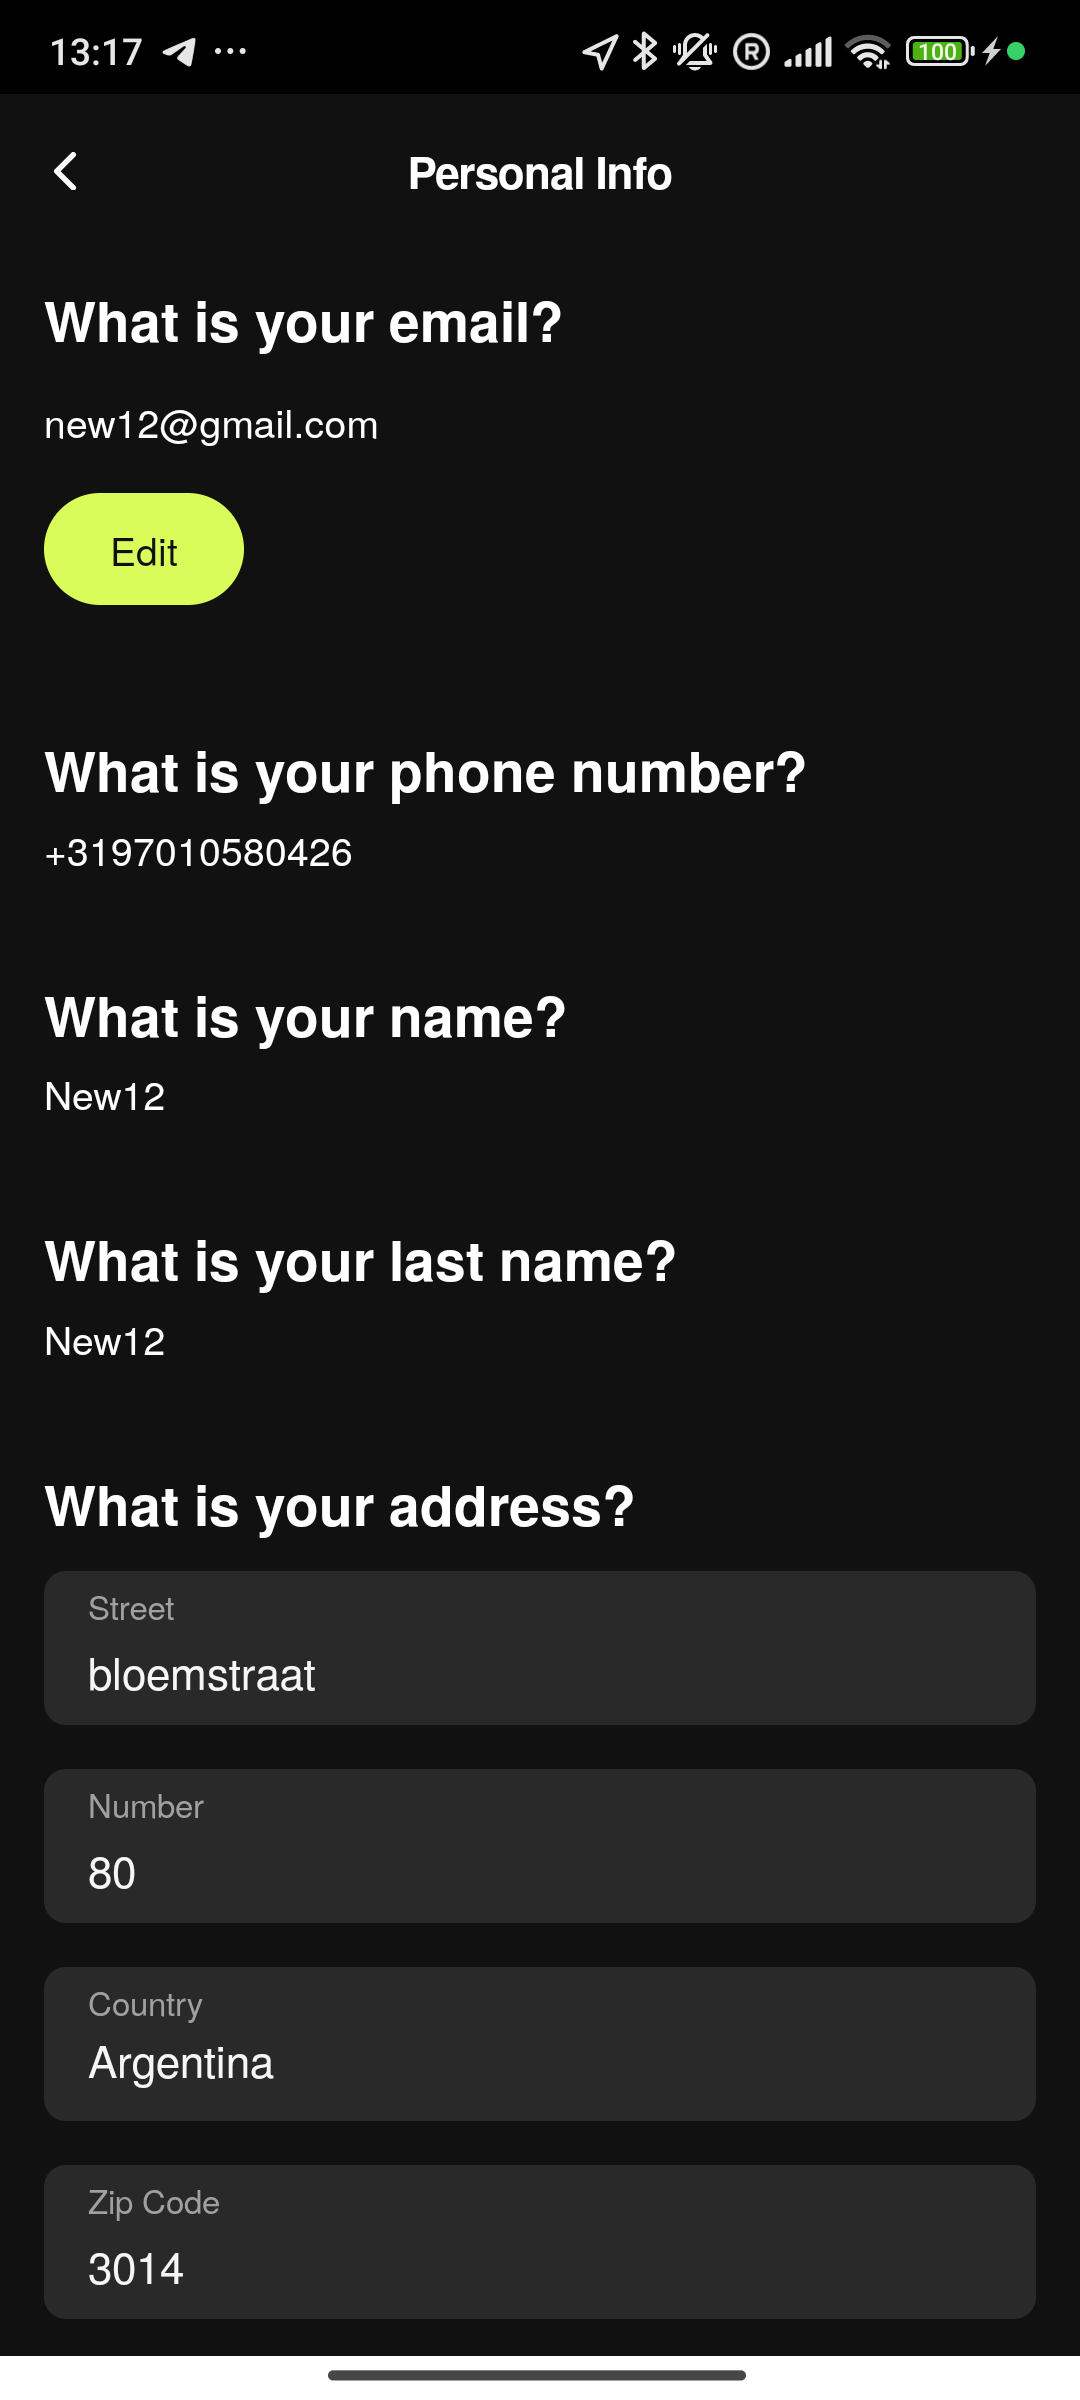
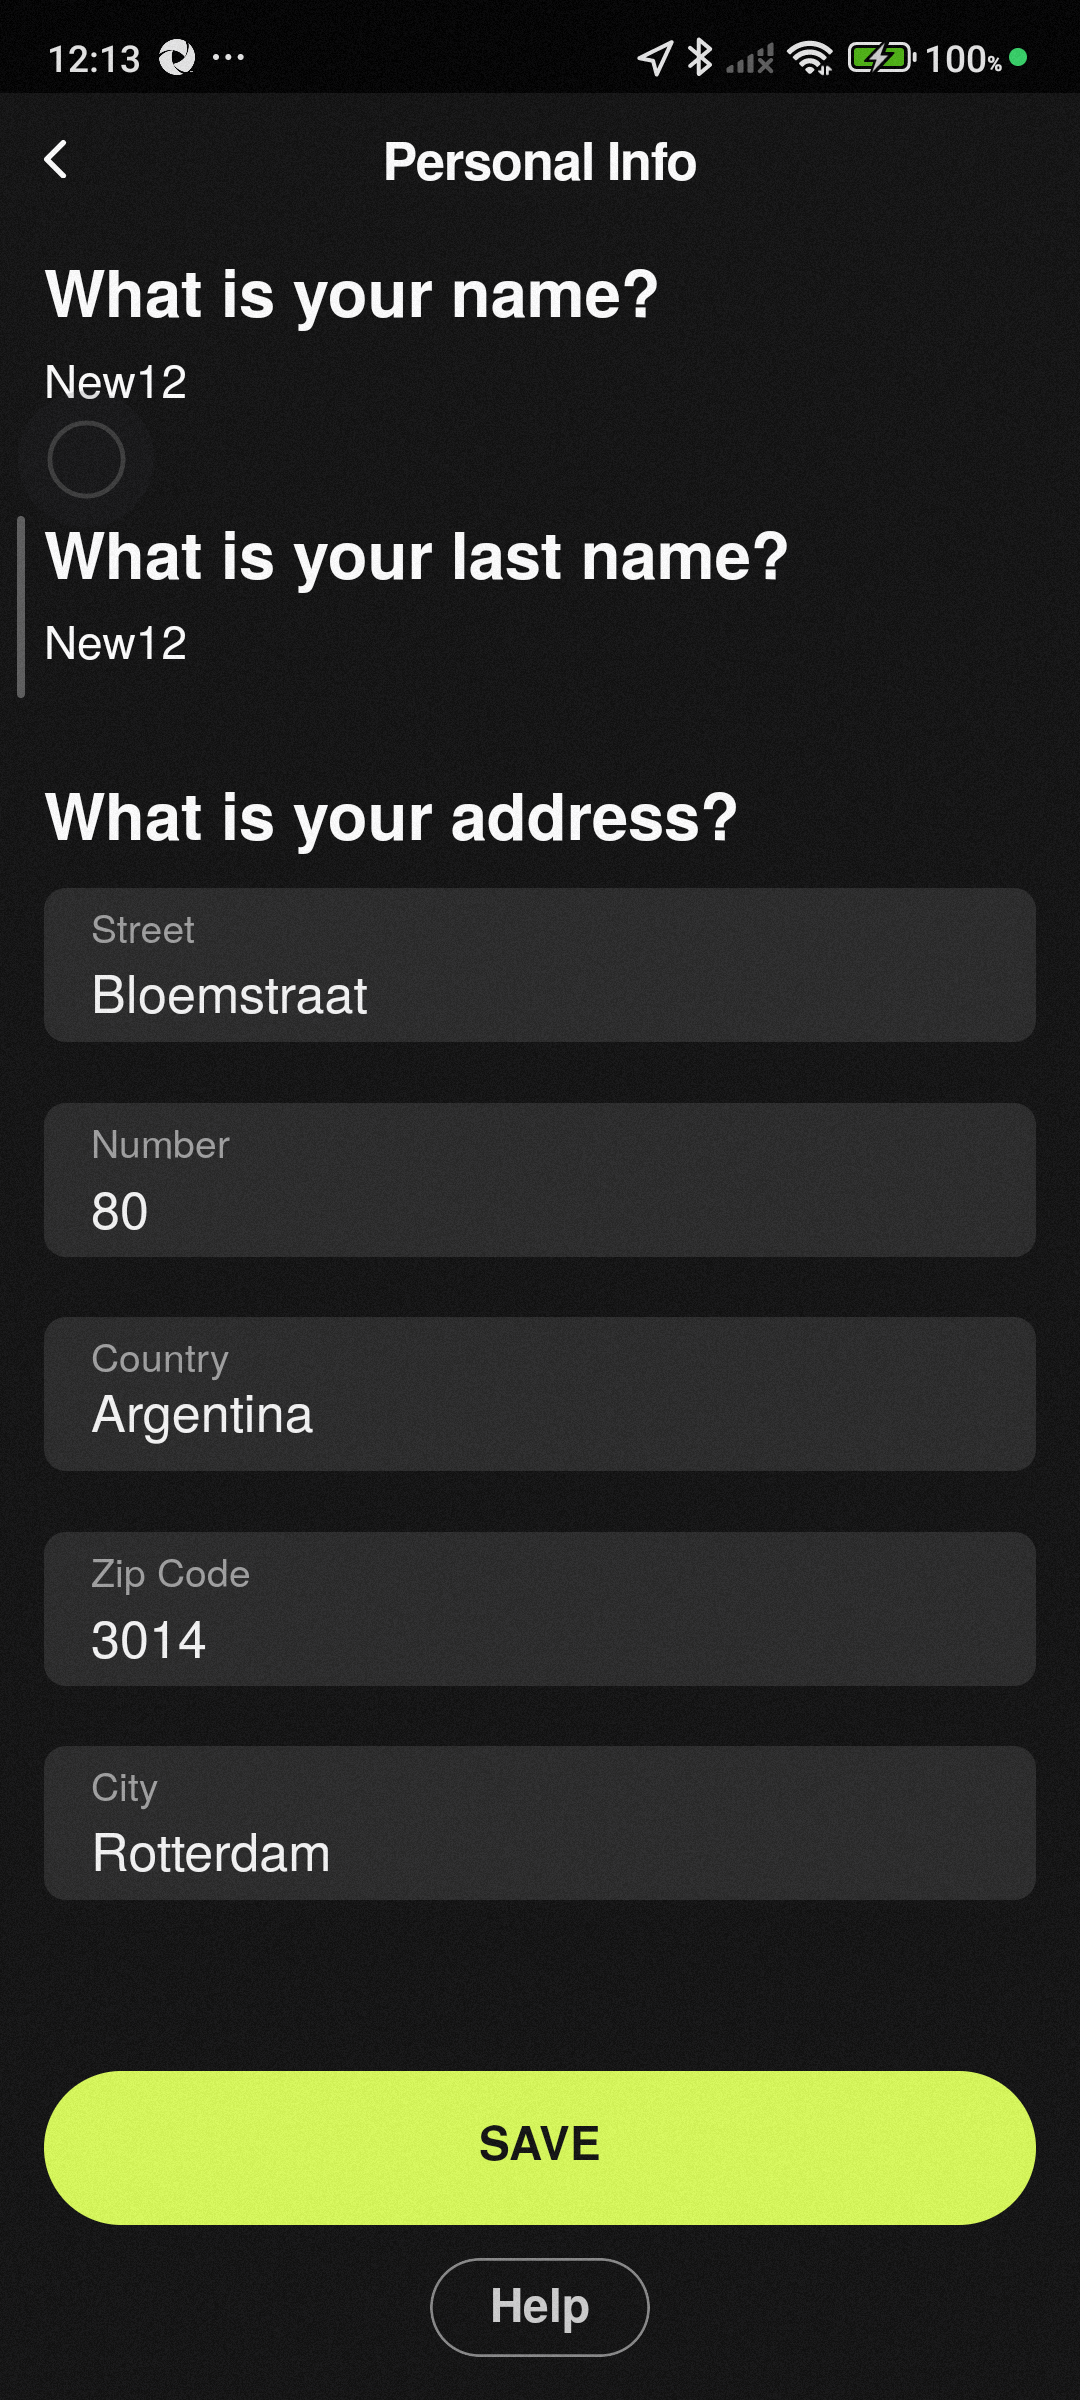
add address test update

diff --git a/config/wdio.android.app.test.conf.ts b/config/wdio.android.app.test.conf.ts
@@ -72,10 +72,10 @@ export const config: WebdriverIO.Config = {
         //"../tests/specs/newUser/COPYpopupAddPaymentMethod.spec.ts",  //it was new13, now newUser in credentials  //ok sometimes verification in progress problem
         //"../tests/specs/newUser/deleteCard.spec.ts"
         ///////////////////////// "c:/dev/umob_appium/tests/specs/notLoggedTests/combinedNotLogged.spec.ts", //ok
-        // "c:/dev/umob_appium/tests/specs/book/reserveCheck.spec.ts",         //new25 //ok/
+        ///////"c:/dev/umob_appium/tests/specs/book/reserveCheck.spec.ts", //new25 //ok/
         // "c:/dev/umob_appium/tests/specs/newUser/nReserveFelyxNoId.spec.ts",  //new38 //ok. not in center, so doesnt click a moped
         //"../tests/specs/newUser/nCombinedLoggedTest.spec.ts",
-        //"../tests/specs/newUserVoucher/vBookCheck.spec.ts" //new37 (end ride is not clicked because timeout)click on pointer for location during manual run//not in center of the screen (updated test because of new user check voucher presence)
+        ////////"../tests/specs/newUserVoucher/vBookCheck.spec.ts", //new37 (end ride is not clicked because timeout)click on pointer for location during manual run//not in center of the screen (updated test because of new user check voucher presence)
         //"../tests/specs/newUserVoucher/vBookFelyx.spec.ts",
         //"../tests/specs/newUser/nReserveFelyxNoId.spec.ts"
         //"../tests/specs/newUser/nReserveCheckNoCard.spec.ts",
@@ -94,7 +94,7 @@ export const config: WebdriverIO.Config = {
         //tests for accept version of app
         // "../tests/specs/login/login.negative.spec.ts",
         // "../tests/specs/notLoggedTests/combinedNotLogged.spec.ts",
-        // "../tests/specs/account/AddAdress.spec.ts", //new12 /test@gmail.com)
+        "../tests/specs/account/AddAdress.spec.ts", //new12 /test@gmail.com)
         // "../tests/specs/newUser/COPYpopupAddPaymentMethod.spec.ts", //newUser
         // "../tests/specs/newUser/nCombinedLoggedTest.spec.ts", //newUser
         // "../tests/specs/newUser/deleteCard.spec.ts" //newUser (new48/test@gmail.com)

diff --git a/config/wdio.android.app.github.conf.ts b/config/wdio.android.app.github.conf.ts
@@ -82,10 +82,10 @@ export const config: WebdriverIO.Config = {
         //"../tests/specs/book/bookDonkeyMocked.spec.ts",
         //"../tests/specs/account/combinedLoggedTest.spec.ts",
         //"../tests/specs/newUser/deleteCard.spec.ts",
-        //"../tests/specs/account/addAdress.spec.ts",
+        "../tests/specs/account/addAdress.spec.ts",
         //"../tests/specs/book/bookUmobScooters.spec.js",
         //"../tests/specs/account/addPaymentMethod.spec.ts", // ok
-        "../tests/specs/newUserVoucher/vBookCheck.spec.ts", //taking photo crashed app. Cant stop active booking for new37 user!
+        //"../tests/specs/newUserVoucher/vBookCheck.spec.ts", //taking photo crashed app. Cant stop active booking for new37 user!
         //"../tests/specs/newUserVoucher/vBookDonkeyMocked.spec.ts", //ok/ ? fail, but there is no active booking for this user (new17)
         //"../tests/specs/newUserVoucher/vBookFelyx.spec.ts", //test picked up moped from outside service area
         //"../tests/specs/newUser/nReserveDonkeyNoCard.spec.js", //ok
@@ -94,7 +94,7 @@ export const config: WebdriverIO.Config = {
         //"../tests/specs/newUser/nReserveFelyxNoId.spec.ts", // fail because payment card wasnt added
         //"../tests/specs/newUser/deleteCard.spec.ts",
         //"../tests/specs/newUser/nReserveCheckNoCard.spec.ts",
-        "../tests/specs/book/reserveCheck.spec.ts",
+        //"../tests/specs/book/reserveCheck.spec.ts",
         //"../tests/specs/book/bookUmobBike.spec.ts", //location problems were before
         //"../tests/specs/book/bookUmobMoped.spec.ts", //taking photo crashed app. Cant stop active booking for new32 user!
         //"../tests/specs/login/login.negative.spec.ts",

diff --git a/tests/specs/account/addAdress.spec.ts b/tests/specs/account/addAdress.spec.ts
@@ -121,13 +121,12 @@ describe("Add address for any user", () => {
             const codeSection = await driver.$(
                 '-android uiautomator:new UiSelector().className("android.widget.EditText").instance(2)',
             );
+
             //await zip code Section.click();
             await codeSection.clearValue();
             await codeSection.addValue("3014");
 
-            const countryDropdown = await driver.$(
-                '//android.widget.FrameLayout[@resource-id="android:id/content"]/android.widget.FrameLayout/android.view.ViewGroup/android.view.ViewGroup/android.view.ViewGroup/android.view.ViewGroup/android.widget.ScrollView/android.view.ViewGroup/android.view.ViewGroup/android.view.ViewGroup/android.widget.ScrollView/android.view.ViewGroup/android.view.ViewGroup/android.view.ViewGroup/android.widget.ScrollView/android.view.ViewGroup/android.view.ViewGroup[3]',
-            );
+            const countryDropdown = await driver.$("accessibility id:Country");
             await expect(countryDropdown).toBeDisplayed();
             await countryDropdown.click();
             await driver.pause(2000);
